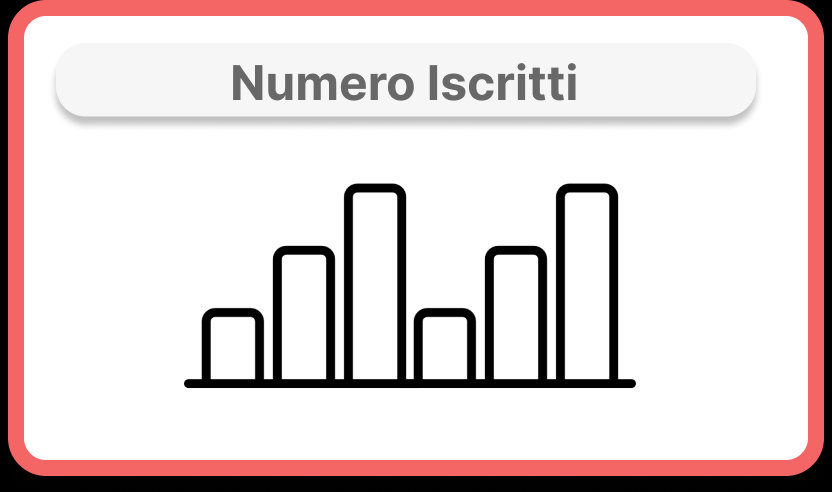
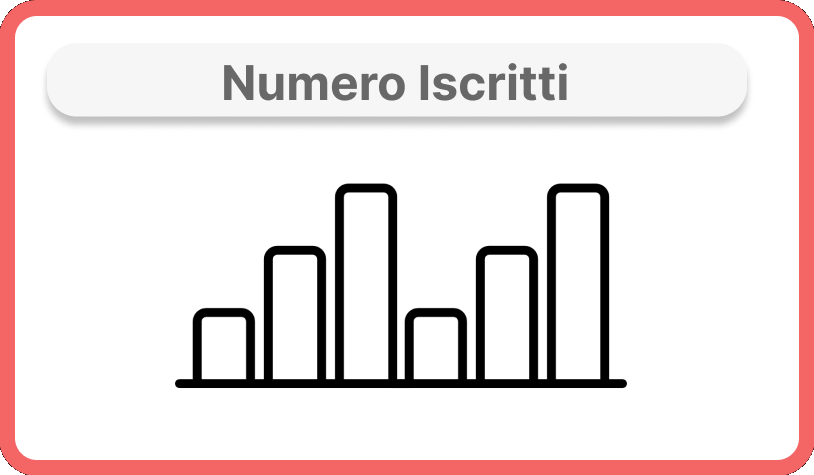
front

Changed region(s): [[0.0, 0.0, 1.0, 1.0], [0.215, 0.3537, 0.7678, 0.8253], [0.0614, 0.1179, 0.9214, 0.2653]]

diff --git a/Ypsilon2/src/components/MyCorso.vue b/Ypsilon2/src/components/MyCorso.vue
@@ -4,10 +4,10 @@
     <p style="position: absolute; left: 1130px; top:65px;" >NOME PROFILO</p>
     <p></p>
     <td colspan="5" style="text-align: center; font-weight: bold; position:absolute; left: 300px; top:200px; font-size:150%">Statistiche del corso</td>
-        <img src="../assets/statistiche1.png" style="width: 300px;height:250px; position:absolute; left: 300px; top:230px" >
-        <img src="../assets/Statistiche2.png" style="width: 300px;height:250px; position:absolute; left: 700px; top:230px">
-        <img src="../assets/Statistiche3.png" style="width: 300px;height:250px; position:absolute; left: 300px; top:600px">
-        <img src="../assets/statistiche4.png" style="width: 300px;height:250px; position:absolute; left: 700px; top:600px">
+        <img src="../assets/statistiche1.png" style="width: 300px;height:200px; position:absolute; left: 300px; top:230px; border-radius:20px;" >
+        <img src="../assets/Statistiche2.png" style="width: 300px;height:200px; position:absolute; left: 700px; top:230px; border-radius:20px;">
+        <img src="../assets/Statistiche3.png" style="width: 300px;height:200px; position:absolute; left: 300px; top:600px; border-radius:20px;">
+        <img src="../assets/statistiche4.png" style="width: 300px;height:200px; position:absolute; left: 700px; top:600px; border-radius:20px;">
     <Corso style="position: absolute; left:300px; top:20px;"/>
     <div>
         <Rating style="position: absolute; left:700px; top:50px;"/>

diff --git a/Ypsilon2/src/assets/My-Corso2.vue b/Ypsilon2/src/assets/My-Corso2.vue
@@ -13,11 +13,11 @@
         
         <td style="border-radius: 10px; text-align: center;">
             <router-link to="/corso">
-            NOME CORSO
+            {{ item.nome }}
             </router-link>
         </td>
          
-        <td style="font-size: large; border-radius: 10px; text-align: center;">val</td>
+        <td style="font-size: large; border-radius: 10px; text-align: center; ">{{ item.valutazione_corso }}</td>
       </tr>
     </table>
 
